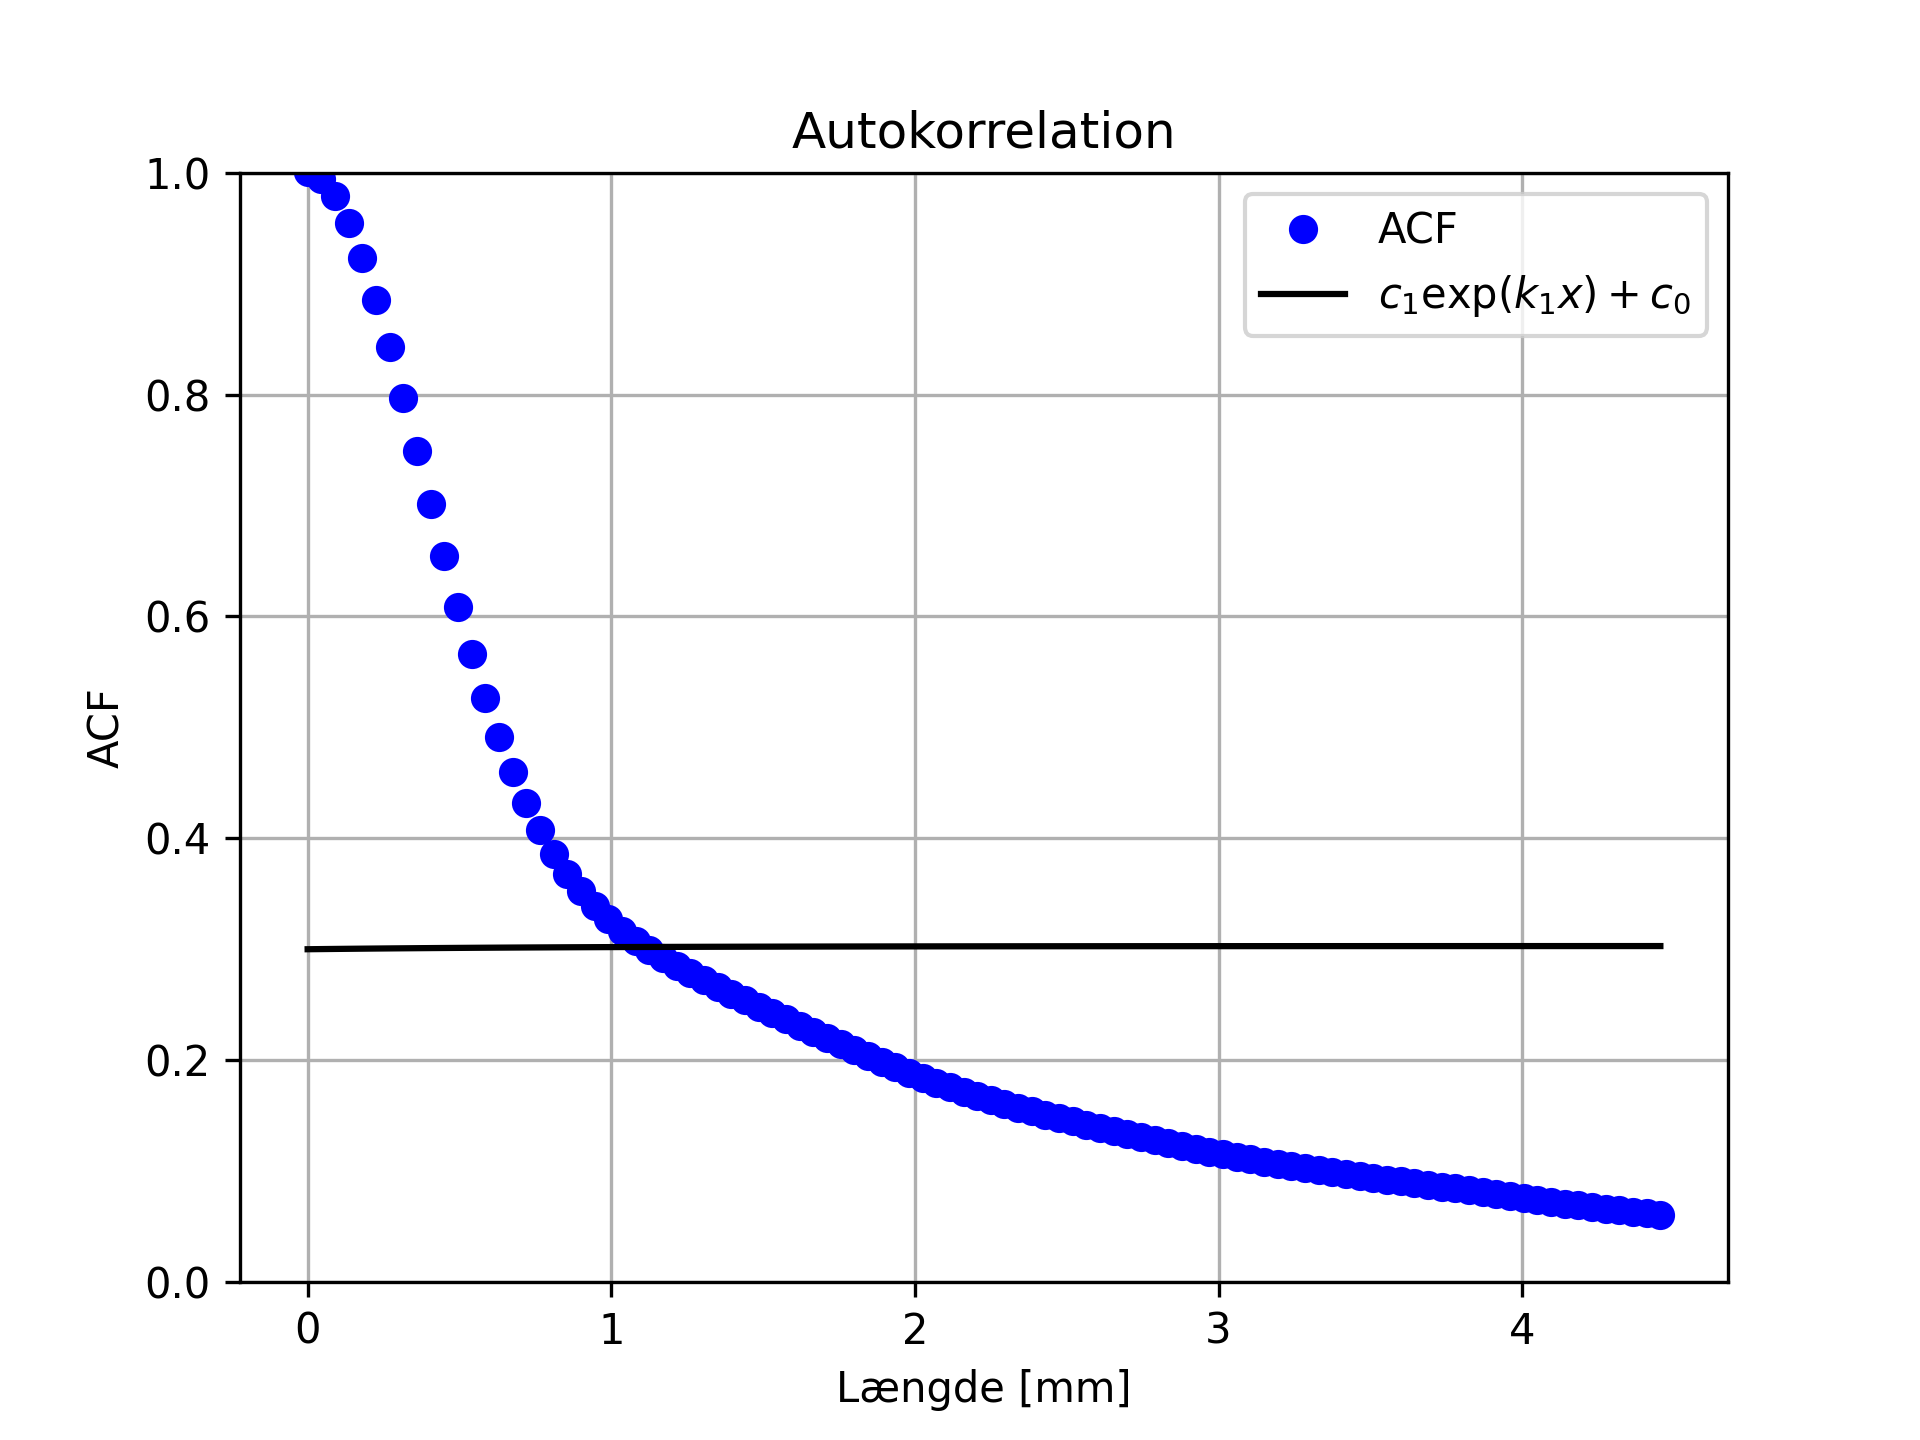
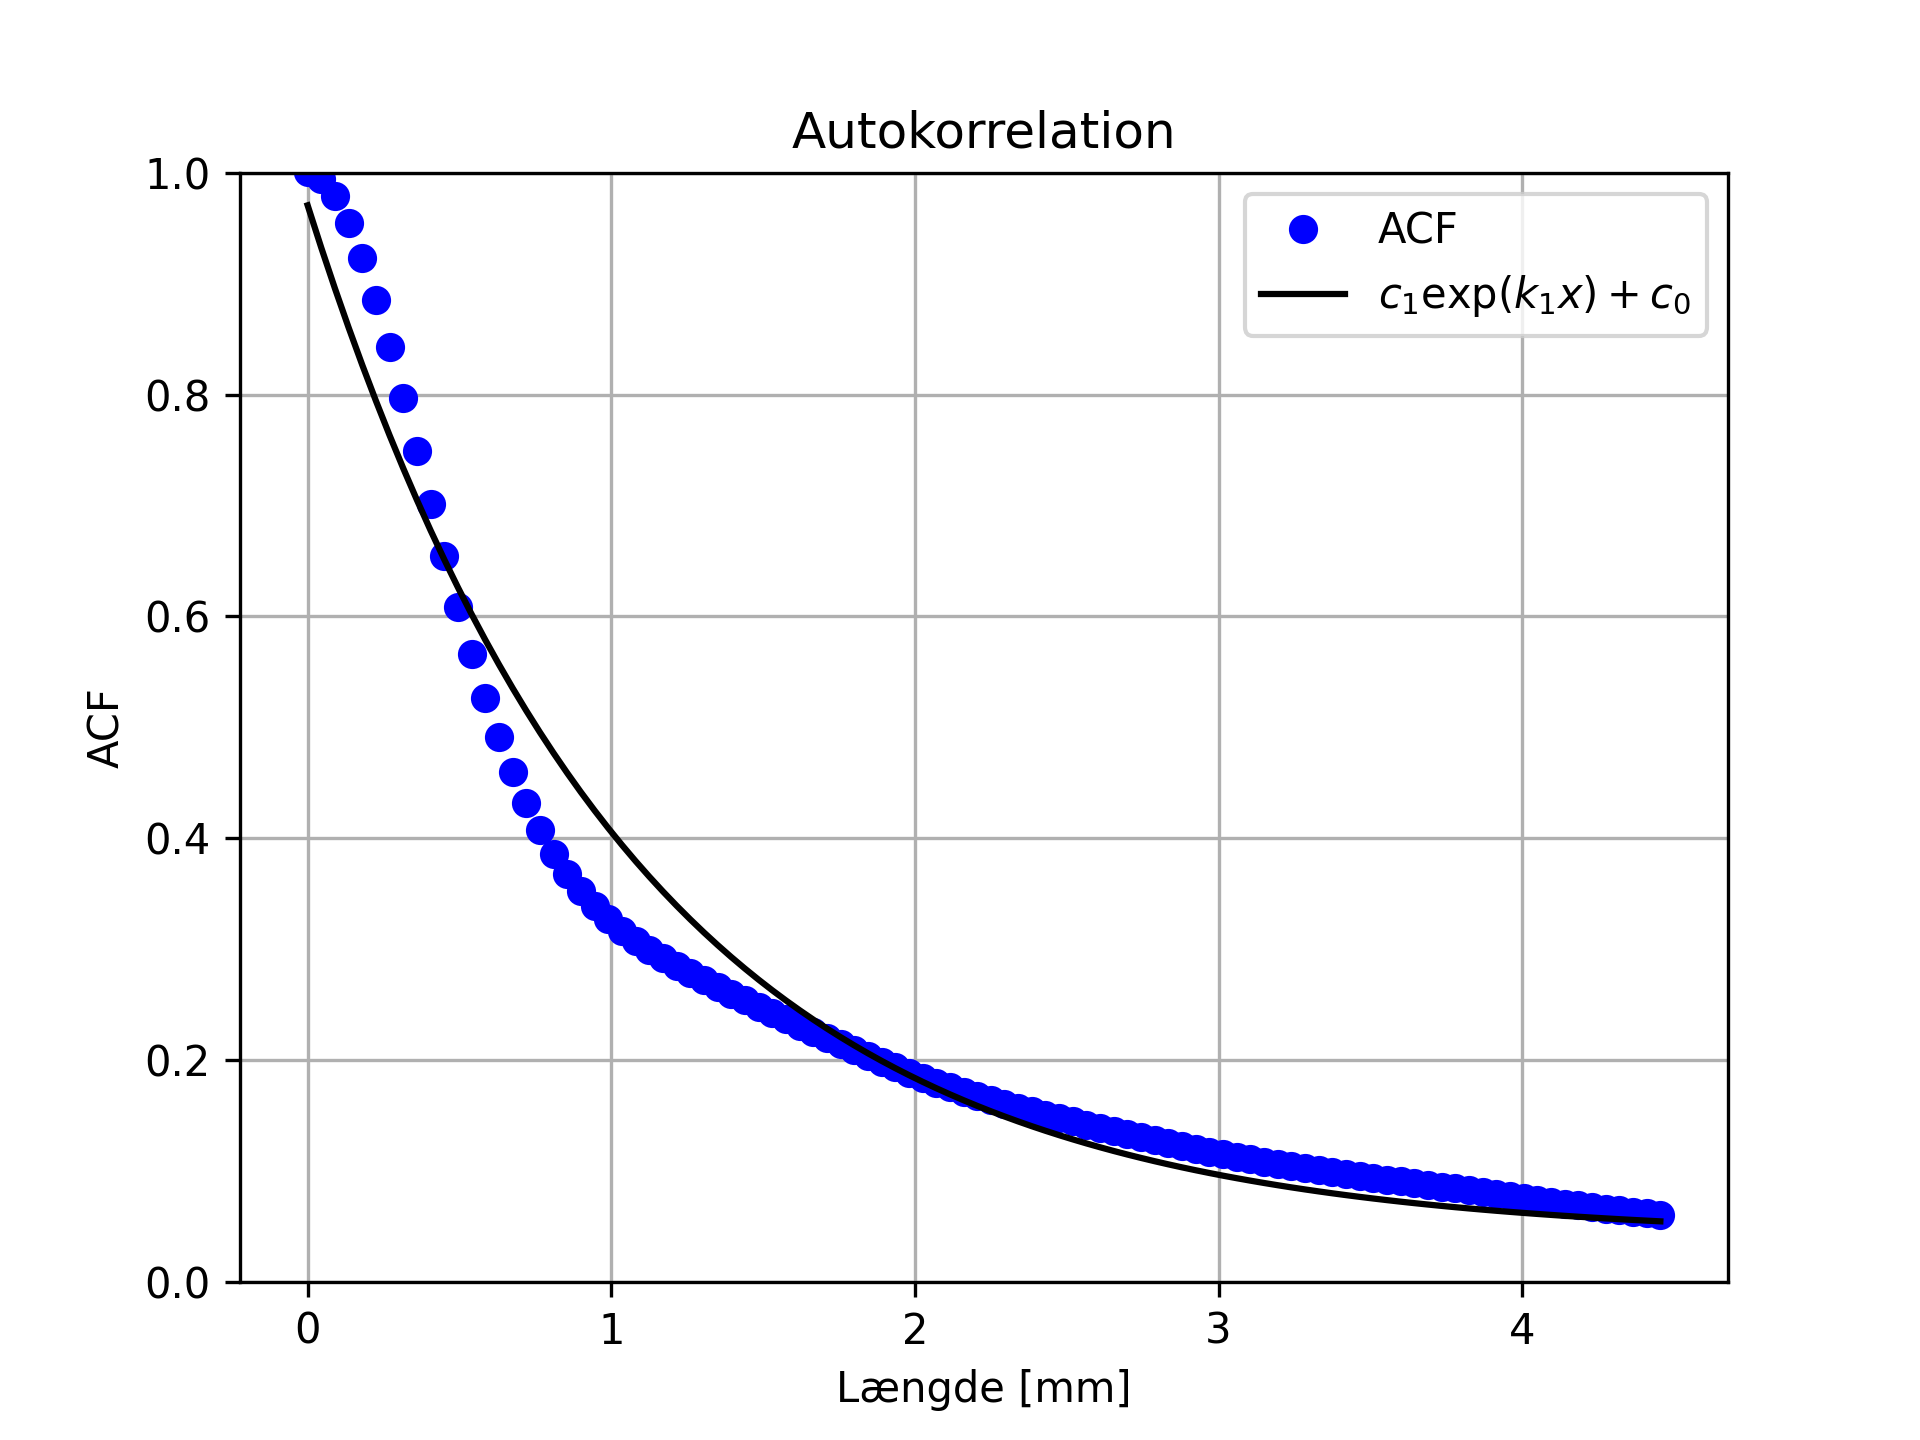
update lsm

diff --git a/acf.py b/acf.py
@@ -74,9 +74,9 @@ def autocolen(acf,scale=1):
     elif n[0] >=1 and n[0] <= (np.size(acf)-1):
         dx = 1
         dy = acf[n[0]] - acf[n[0]-1]
-        target = t - acf[n[0]-1]
+        target = acf[n[0]-1] - t
         m = dx*dy/target
-        n = n[0] - m
+        n = n[0] + m
         #print(f"m er {m:.3f}, n er {n}")
     else:
         print("")
@@ -102,9 +102,9 @@ def plot_acf(acf, lags, n=1, conversion=90/2000, niter=20, func=1, saveas = None
         plotlabel = r'$c_1 \exp(k_1 x) + c_0$'
     elif func == 2:
         fy = func2(m,x)
-        plotlabel = r'$c_1 / \sqrt{2 \pi \sigma^2} \cdot \exp\left(-\frac{\left(x - \mu \right)^2}{2 \sigma}\right) + c_0$'
+        plotlabel = r'$\frac{c_1}{\sqrt{2 \pi \sigma^2}} \cdot \exp\left(-\frac{\left(x - \mu \right)^2}{2 \sigma^2}\right) + c_0$'
 
-    #print(m)
+    print(m)
     plt.figure()
     plt.plot(x,y,'bo',label="ACF")
     plt.plot(x,fy,'k-',label=plotlabel)
@@ -131,9 +131,11 @@ def plot_acf(acf, lags, n=1, conversion=90/2000, niter=20, func=1, saveas = None
 
     print(f"Statistic is {stat:.04f} compared to {test:.04f}")
     print(f"p-value is {pval:.04f}")
-    acl = np.sqrt(2)*m[1]-m[2]
-    functype = {1: "eksponentiel", 2: "Gauss"}
-    print(f"Autokorrelationslængde fra {functype[func]} lsm: {acl:.04f}mm")
+    acl = [0,-1/m[2], np.sqrt(2)*m[1]-m[2]]
+    functype = ["null", "eksponentiel", "Gauss"]
+    print(f"Autokorrelationslængde fra {functype[func]} lsm: {acl[func]:.04f}mm")
+
+    return m
 
 #---------------------------------------------------------------
 
@@ -143,28 +145,28 @@ def lsm(x,y, m=[0.1, 1, -1], niter=50, func=1):
     Least square method
     """
     # Omdanner til søjlevektorer
-    y = np.hstack([np.flip(y),y])[:,np.newaxis]
-    x = np.hstack([np.flip(-x),x])[:,np.newaxis]
+    if func == 2:
+        y = np.hstack([np.flip(y),y])
+        x = np.hstack([np.flip(-x),x])
+
+    y = y[:,np.newaxis]
+    x = x[:,np.newaxis]
 
     #Itererer
     for i in range(niter): 
 
+  
+        G = df(m=m, x=x, func=func)
         if func == 1:
-            # eksponentiel funktion m1*exp(m2*x) + m0
-            d0 = dfd0(m,x)
-            d1 = df1d1(m,x)
-            d2 = df1d2(m,x)
-            G = np.hstack((d0,d1,d2))
             yz = y - func1(m,x)
         elif func == 2:
-            #Gaussisk funktion exp(x^2) + a0
-            d0 = dfd0(m,x)
-            d1 = df2d1(m,x)
-            d2 = df2d2(m,x)
-            d3 = df2d3(m,x)
-            G = np.hstack((d0,d1,d2,d3))
-            yz = y - func2(m,x)
+            yz = y- func2(m,x)
         
+        Cobs = np.eye(np.size(x))*(np.array(1/(1+np.abs(x)+2*np.sqrt(np.abs(x)))))
+        A = G.T * Cobs * G
+        b = (G.T *Cobs).dot(yz)
+
+
         delta = np.linalg.lstsq(G,yz,rcond=None)[0] #Magi
         m = m + np.transpose(delta)[0]
         res = np.transpose(delta).dot(delta)[0][0]
@@ -172,6 +174,8 @@ def lsm(x,y, m=[0.1, 1, -1], niter=50, func=1):
         if res < 1e-8:
             break
         
+        
+
     #print(m)
     return m
 
@@ -186,20 +190,35 @@ def func2(m,x):
 
 #--------------------------------------------------------------
 
-def dfd0(m,x): #c_0
-    return np.ones(np.size(x))[:,np.newaxis]
+def df(m,x,func):
 
-def df1d1(m,x):
-    return np.exp(m[2]*x)
+    if func == 1:
+        G = np.hstack([np.ones(np.size(x))[:,np.newaxis], #dfd0
+        np.exp(m[2]*x), #dfd1
+        m[1]*m[2]*np.exp(m[2]*x)]) #dfd2
+    elif func == 2:
+       G = np.hstack([np.ones(np.size(x))[:,np.newaxis], #dfd0
+       (((x - m[2])**2 - m[1]**2)/(m[1]**3)) * func2([0,m[1],m[2],m[3]],x), #dfd1
+       ((x-m[2])/(m[1]**2)) * func2([0,m[1],m[2],m[3]],x), #dfd2
+       func2([0,m[1],m[2],1],x)]) #dfd3
 
-def df1d2(m,x):
-    return m[0]*m[1]*np.exp(m[2]*x)
+    return G 
 
-def df2d1(m,x): #sigma
-    return (((x - m[2])**2 - m[1]**2)/(m[1]**3)) * func2([0,m[1],m[2],m[3]],x)
 
-def df2d2(m,x): #mu
-    return ((x-m[2])/(m[1]**2)) * func2([0,m[1],m[2],m[3]],x)
+# def dfd0(m,x): #c_0
+#     return np.ones(np.size(x))[:,np.newaxis]
 
-def df2d3(m,x): #C_1
-    return func2([0,m[1],m[2],1],x)
+# def df1d1(m,x):
+#     return np.exp(m[2]*x)
+
+# def df1d2(m,x):
+#     return m[1]*m[2]*np.exp(m[2]*x)
+
+# def df2d1(m,x): #sigma
+#     return (((x - m[2])**2 - m[1]**2)/(m[1]**3)) * func2([0,m[1],m[2],m[3]],x)
+
+# def df2d2(m,x): #mu
+#     return ((x-m[2])/(m[1]**2)) * func2([0,m[1],m[2],m[3]],x)
+
+# def df2d3(m,x): #C_1
+#     return func2([0,m[1],m[2],1],x)
